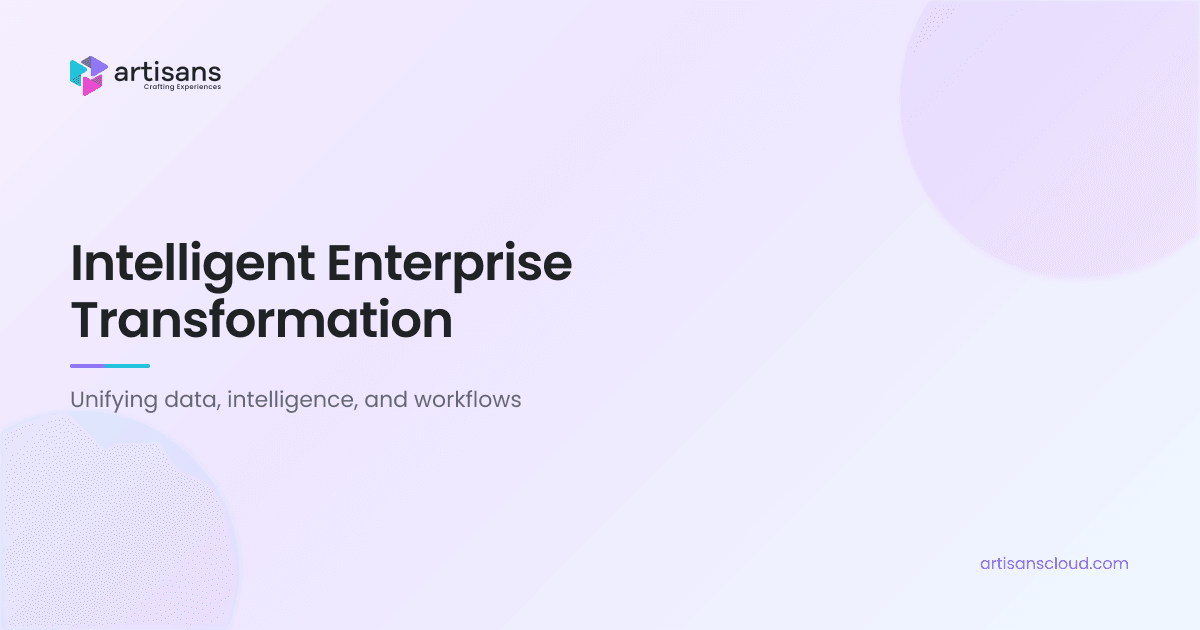
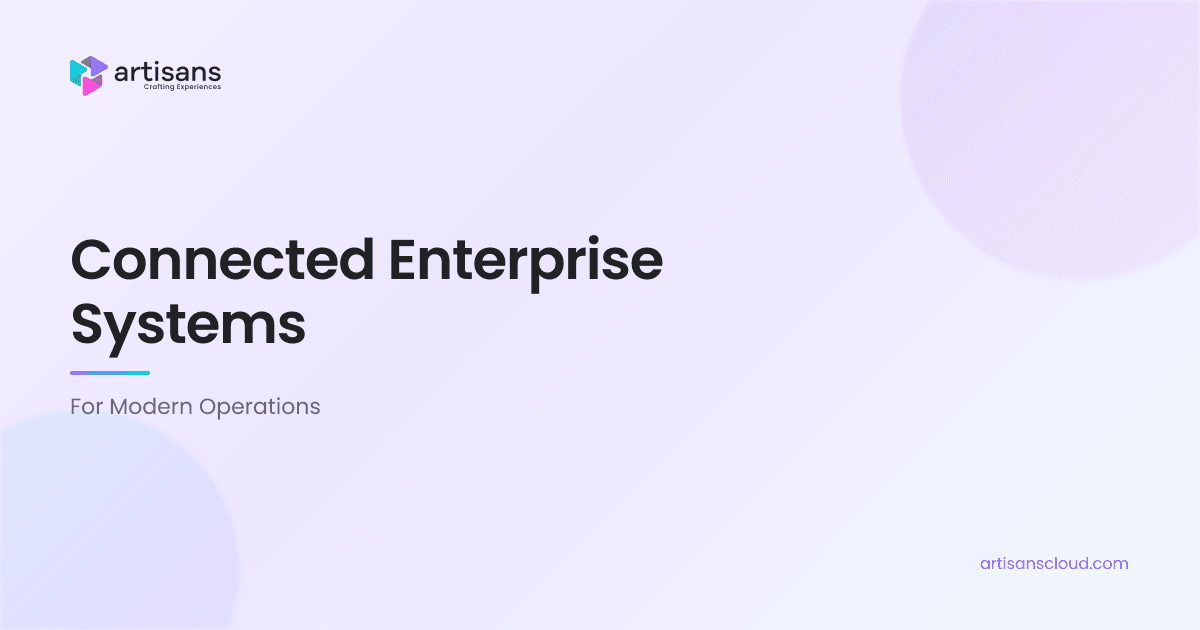
fix: update homepage OG image titles and subtitles for clarity

Changed region(s): [[0.0617, 0.3619, 0.555, 0.6635]]

diff --git a/scripts/generate-og-images.js b/scripts/generate-og-images.js
@@ -40,8 +40,8 @@ const COLORS = {
 const PAGES = [
   {
     file: 'index',
-    title: 'Intelligent Enterprise\nTransformation',
-    subtitle: 'Unifying data, intelligence, and workflows',
+    title: 'Connected Enterprise\nSystems',
+    subtitle: 'For Modern Operations',
   },
   {
     file: 'unified-commerce',
